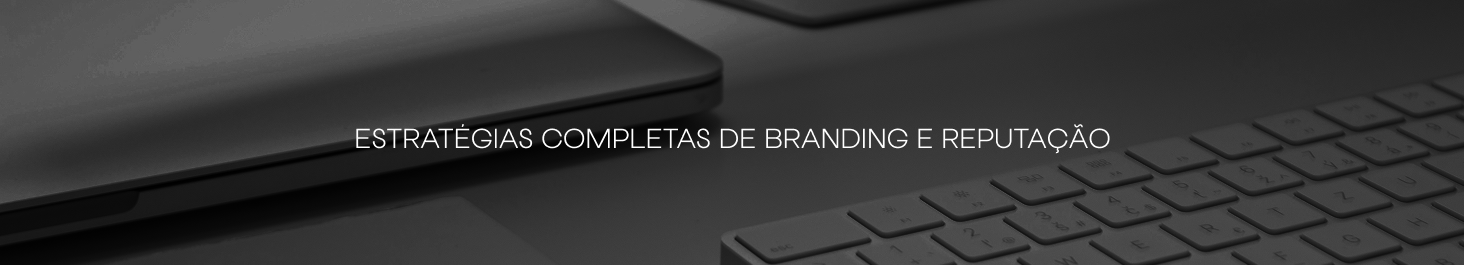
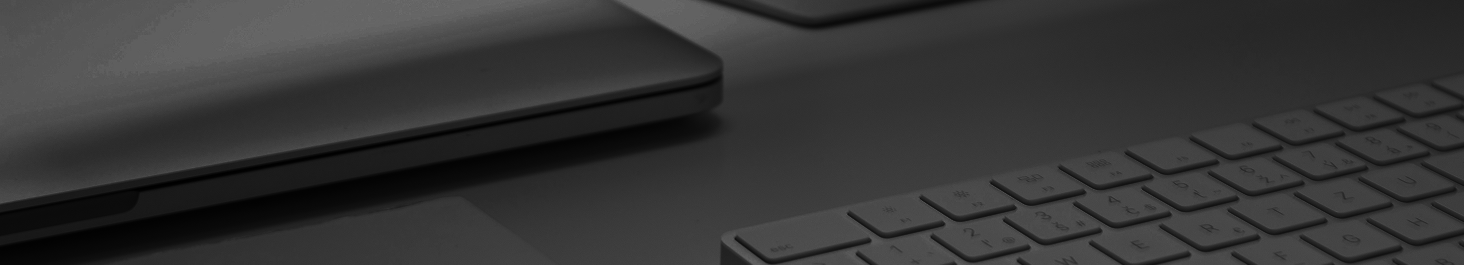
alt

Changed region(s): [[0.2459, 0.483, 0.7684, 0.5736]]

diff --git a/src/app/servicos/page.tsx b/src/app/servicos/page.tsx
@@ -30,26 +30,47 @@ const Servicos = () => {
         {/* Grade de serviços */}
         <div className="grid grid-cols-1 sm:grid-cols-2 gap-6">
           {[
-            "/servicos/kv.png",
-            "/servicos/rede.png",
-            "/servicos/roteiro.png",
-            "/servicos/performance.png",
-            "/servicos/producao.png",
-            "/servicos/infoprod.png",
-          ].map((src, i) => (
-            <Image
-              key={i}
-              src={src}
-              width={722}
-              height={297}
-              alt="Bmouse Productions"
-              className="w-full h-auto"
-            />
+            {
+              src: "/servicos/kv.png",
+              text: "CRIAÇÃO DE IDENTIDADE VISUAL E KV",
+            },
+            { src: "/servicos/rede.png", text: "GESTÃO DE REDES SOCIAIS" },
+            {
+              src: "/servicos/roteiro.png",
+              text: "Roteirização e produção de Reels virais",
+            },
+            {
+              src: "/servicos/performance.png",
+              text: "Performance e impulsionamento",
+            },
+            {
+              src: "/servicos/producao.png",
+              text: "Produção de vídeos documentais e institucionais",
+            },
+            {
+              src: "/servicos/infoprod.png",
+              text: "Lançamentos digitais e infoprodutos",
+            },
+          ].map(({ src, text }, i) => (
+            <div key={i} className="relative w-full h-auto">
+              <Image
+                src={src}
+                width={722}
+                height={297}
+                alt={text}
+                className="w-full h-auto"
+              />
+              <div className="absolute inset-0 flex items-center justify-center px-4 text-center">
+                <p className="text-white text-lg sm:text-xl md:text-2xl font-light leading-snug franie uppercase">
+                  {text}
+                </p>
+              </div>
+            </div>
           ))}
         </div>
 
         {/* Imagem final */}
-        <div className="pt-5">
+        <div className="pt-5 relative">
           <Image
             src="/servicos/estrategia.png"
             width={1464}
@@ -57,6 +78,11 @@ const Servicos = () => {
             alt="Bmouse Productions"
             className="w-full h-auto"
           />
+          <div className="absolute inset-0 flex items-center justify-center px-4 text-center">
+            <p className="text-white text-lg sm:text-xl md:text-2xl font-light leading-snug franie uppercase">
+              Estratégias completas de branding e reputação
+            </p>
+          </div>
         </div>
 
         {/* Botão */}

diff --git a/src/app/contato/page.tsx b/src/app/contato/page.tsx
@@ -44,7 +44,7 @@ const Contato = () => {
         {/* Formulário */}
         <form className="w-full max-w-xl space-y-6">
           {/* Campos duplos */}
-          <div className="grid grid-cols-1 md:grid-cols-2 gap-4">
+          <div className="grid grid-cols-1 md:grid-cols-1 gap-4">
             <div>
               <label className="block text-xs uppercase mb-1">Nome</label>
               <input
@@ -52,16 +52,7 @@ const Contato = () => {
                 className="w-full border-b outline-none bg-transparent"
               />
             </div>
-            <div>
-              <label className="block text-xs uppercase mb-1">
-                Nome profissional
-              </label>
-              <input
-                type="text"
-                placeholder="Doe"
-                className="w-full border-b outline-none bg-transparent"
-              />
-            </div>
+
             <div>
               <label className="block text-xs uppercase mb-1">Email</label>
               <input
@@ -70,7 +61,7 @@ const Contato = () => {
               />
             </div>
             <div>
-              <label className="block text-xs uppercase mb-1">Contato</label>
+              <label className="block text-xs uppercase mb-1">Telefone</label>
               <input
                 type="text"
                 placeholder="+01 2345-6789"
@@ -80,7 +71,7 @@ const Contato = () => {
           </div>
 
           {/* Nicho */}
-          <div>
+          {/* <div>
             <p className="text-xs uppercase mb-2">Qual seu nicho?</p>
             <div className="flex flex-wrap gap-4 text-sm">
               {[
@@ -95,7 +86,7 @@ const Contato = () => {
                 </label>
               ))}
             </div>
-          </div>
+          </div> */}
 
           {/* Texto livre */}
           <div>

diff --git a/src/components/Header/Header.tsx b/src/components/Header/Header.tsx
@@ -23,7 +23,6 @@ const Header = () => {
           )}
         </button>
 
-        {/* Logo central no mobile */}
         <div className="absolute left-1/2 transform -translate-x-1/2 md:static md:transform-none">
           <a href="/">
             <Image
@@ -35,9 +34,6 @@ const Header = () => {
           </a>
         </div>
 
-        {/* Botão fale conosco no canto direito (mobile) */}
-
-        {/* Navegação (desktop) */}
         <nav className="hidden md:flex gap-8 py-10 items-center text-center justify-items-center justify-center">
           <ul className="flex gap-6 items-center text-xs franie">
             <li>
@@ -61,7 +57,6 @@ const Header = () => {
         </nav>
       </div>
 
-      {/* Menu Mobile Dropdown */}
       {isOpen && (
         <div className="md:hidden mt-4">
           <ul className="flex flex-col gap-4 text-center text-sm">

diff --git a/src/app/cases-de-sucesso/page.tsx b/src/app/cases-de-sucesso/page.tsx
@@ -90,12 +90,12 @@ const Cases = () => {
       <div className="max-w-7xl mx-auto px-6">
         <div className="mb-10 text-center md:text-left">
           <span className="border rounded-full border-[#14163A] py-2 px-4 text-sm uppercase inline-block franie">
-            Sobre nós
+            PORTFÓLIO
           </span>
         </div>
 
         <div className="flex justify-between md:items-start flex-wrap gap-4 mb-16">
-          <h1 className="text-5xl md:text-5xl font-serif uppercase leading-tight max-w-2xl  md:text-left franieTitle">
+          <h1 className="text-5xl md:text-5xl font-serif uppercase leading-tight max-w-2xl  md:text-left franie">
             Cases de Sucesso
           </h1>
           <span className="text-sm mt-4 md:mt-2 max-w-md hidden md:block franie">

diff --git a/src/app/home/Agencia.tsx b/src/app/home/Agencia.tsx
@@ -33,7 +33,8 @@ const Agencia = () => {
             Clique abaixo e receba sua proposta personalizada.
           </p>
           <a
-            href="#"
+            href="https://wa.me/5534999306776?text=Ol%C3%A1%2C%20vim%20atrav%C3%A9s%20do%20site%2C%20quero%20saber%20mais%20sobre%20o%20trabalho%20do%20Grupo%20BMouse"
+            target="_blank"
             className="md:inline-block bg-white text-black text-sm px-6 py-3 font-semibold hover:opacity-90 transition rounded"
           >
             QUERO MEU PLANEJAMENTO

diff --git a/src/components/Footer/Footer.tsx b/src/components/Footer/Footer.tsx
@@ -52,7 +52,8 @@ const Footer = () => {
           <p>
             📞{" "}
             <a
-              href="tel:+5534999306776"
+              href="https://wa.me/5534999306776?text=Ol%C3%A1%2C%20vim%20atrav%C3%A9s%20do%20site%2C%20quero%20saber%20mais%20sobre%20o%20trabalho%20do%20Grupo%20BMouse"
+              target="_blank"
               className="underline hover:text-blue-700"
             >
               (34) 99930-6776
